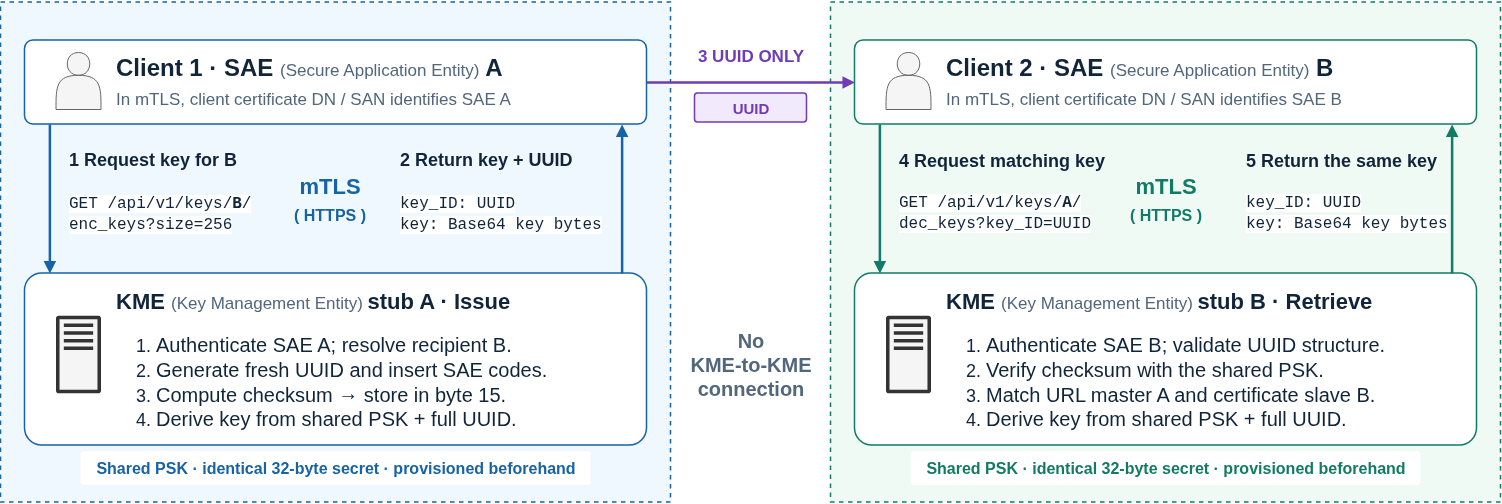
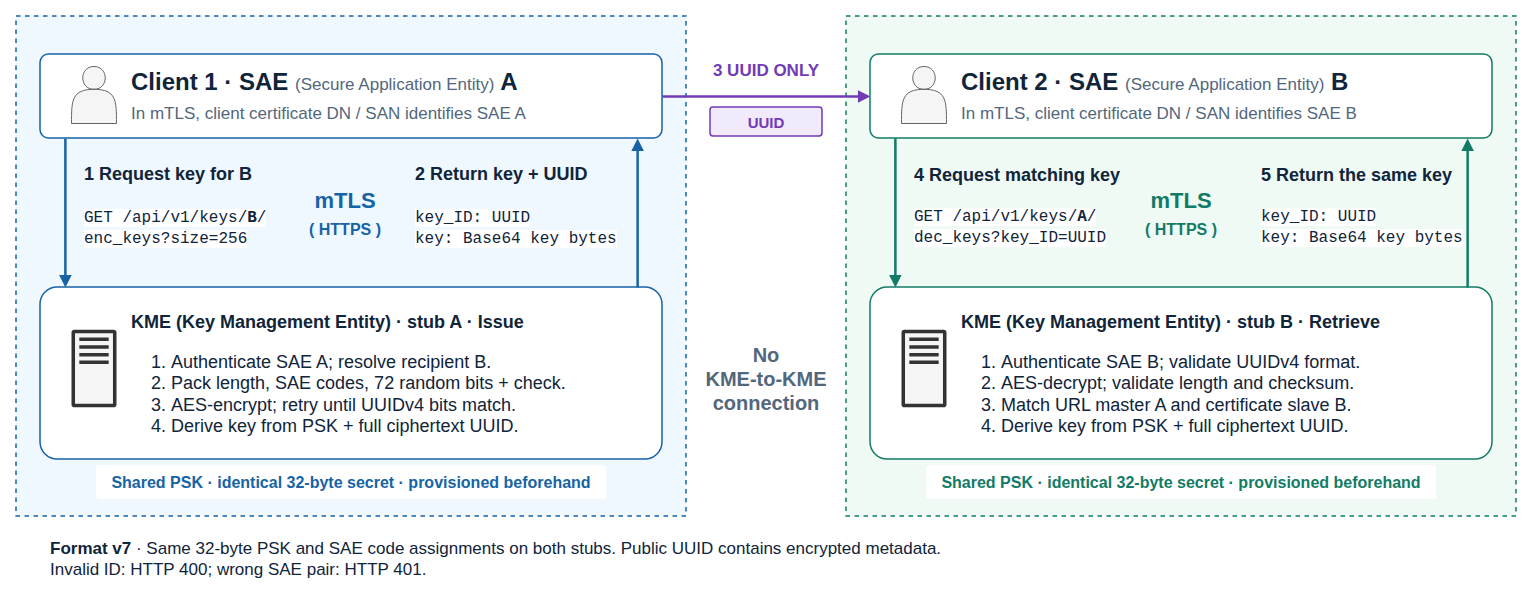
Update v7 diagrams and clarify repeat key retrieval

diff --git a/README.md b/README.md
@@ -32,8 +32,8 @@ the sending and receiving SAEs. Both servers must assign the same numeric codes
 to those SAEs.
 
 The PSK is mandatory and client-certificate SAE authorization is on by default.
-Anyone with the PSK can reconstruct keys and decrypt their UUID metadata. This is a software test stub, not real QKD: no key consumption, expiry,
-issuance history or forward secrecy.
+Anyone with the PSK can reconstruct keys and decrypt their UUID metadata. This is
+a software test stub, not real QKD, and PSK-derived keys do not have forward secrecy.
 
 ## Prerequisites
 
@@ -112,11 +112,17 @@ itself has the required six bits (64 attempts on average); no ciphertext bits
 are overwritten. This retains approximately 66 bits of randomness per fixed
 SAE pair and key length. Retrieval needs one decryption.
 
+Authorized repeat retrieval of the same ID returns the same key while the PSK
+remains unchanged, including after a restart. This supports retries; retrieval
+does not consume the ID, and IDs do not expire.
+
 The PSK hides the embedded pair and length from observers of the ID. It does not
-hide network endpoints or traffic patterns, authenticate issuance, or prevent
-replay. The checksum remains an 8-bit configuration/error check, not a security
-boundary. See [encrypted ID format](docs/encrypted-key-ids.md) for the exact layout,
-derivation and limits. Older layout/derivation images describe the previous format.
+hide network endpoints or traffic patterns, or authenticate issuance. The checksum
+remains an 8-bit configuration/error check, not a security boundary. See [encrypted ID format](docs/encrypted-key-ids.md) for the exact layout,
+derivation and limits. The [editable three-page diagram](docs/qkd-stub-architecture.drawio)
+contains the current exchange flow, [ID layout](docs/key-id-layout.drawio.png),
+and [key derivation](docs/key-derivation.drawio.png). Older `qkd-uuid-layout.png`
+and `qkd-key-derivation.png` images describe the previous format.
 
 ## Certificate-based SAE authorization
 

diff --git a/docs/encrypted-key-ids.md b/docs/encrypted-key-ids.md
@@ -57,13 +57,21 @@ repeated ciphertext and the same key.
 The checksum is not authentication or proof of issuance. Conditional on a
 plausible decrypted length, a wrong PSK passes this 8-bit check with probability
 about 1/256; length validation rejects additional wrong-key decryptions.
-There is no issuance history, consumption, expiry, replay protection or forward
-secrecy. PSK holders can recover metadata and keys; observers may still learn
+
+Authorized repeat retrieval of the same ID returns the same key while the PSK
+remains unchanged, including after a restart. This supports retries; retrieval
+does not consume the ID, and IDs do not expire. The stub keeps no issuance history.
+
+PSK-derived keys do not have forward secrecy. PSK holders can recover metadata
+and keys; observers may still learn
 communication partners through endpoints, request paths or traffic patterns.
 
 Previous plaintext UUIDv8 IDs and older formats are rejected. Upgrade both
 servers and obtain new IDs. Revision v7 in labels is unrelated to UUIDv7.
-The older UUID layout and key-derivation PNGs are historical, not this format.
+Current diagrams: [ID layout](key-id-layout.drawio.png),
+[key derivation](key-derivation.drawio.png), and
+[editable three-page source](qkd-stub-architecture.drawio).
+The older `qkd-uuid-layout.png` and `qkd-key-derivation.png` images are historical.
 
 ## Independent test vectors
 

diff --git a/AGENTS.md b/AGENTS.md
@@ -1,0 +1,17 @@
+# Documentation and wiki maintenance
+
+When changing documented behavior, update the README, relevant `docs/` files,
+and affected GitHub wiki pages in the same task. This includes key-ID formats,
+derivation formulas and labels, API behavior, authorization, CLI options,
+deployment, and testing instructions.
+
+The wiki is a separate Git repository:
+`https://github.com/LUMII-Syslab/qkd-stub.wiki.git`.
+Fetch its latest state before editing; commit and push the relevant wiki updates
+when publishing is authorized. If access or authorization prevents publication,
+report the pending wiki changes explicitly rather than claiming it is up to date.
+
+For key derivation, check `src/keys.rs`, `docs/encrypted-key-ids.md`, and the wiki's
+`Key-ID-and-Key-Derivation.md` together. Keep formulas, byte layouts, format
+versions, limits, migration notes, and test vectors consistent. Update or remove
+obsolete diagrams and check related wiki pages for stale descriptions.
